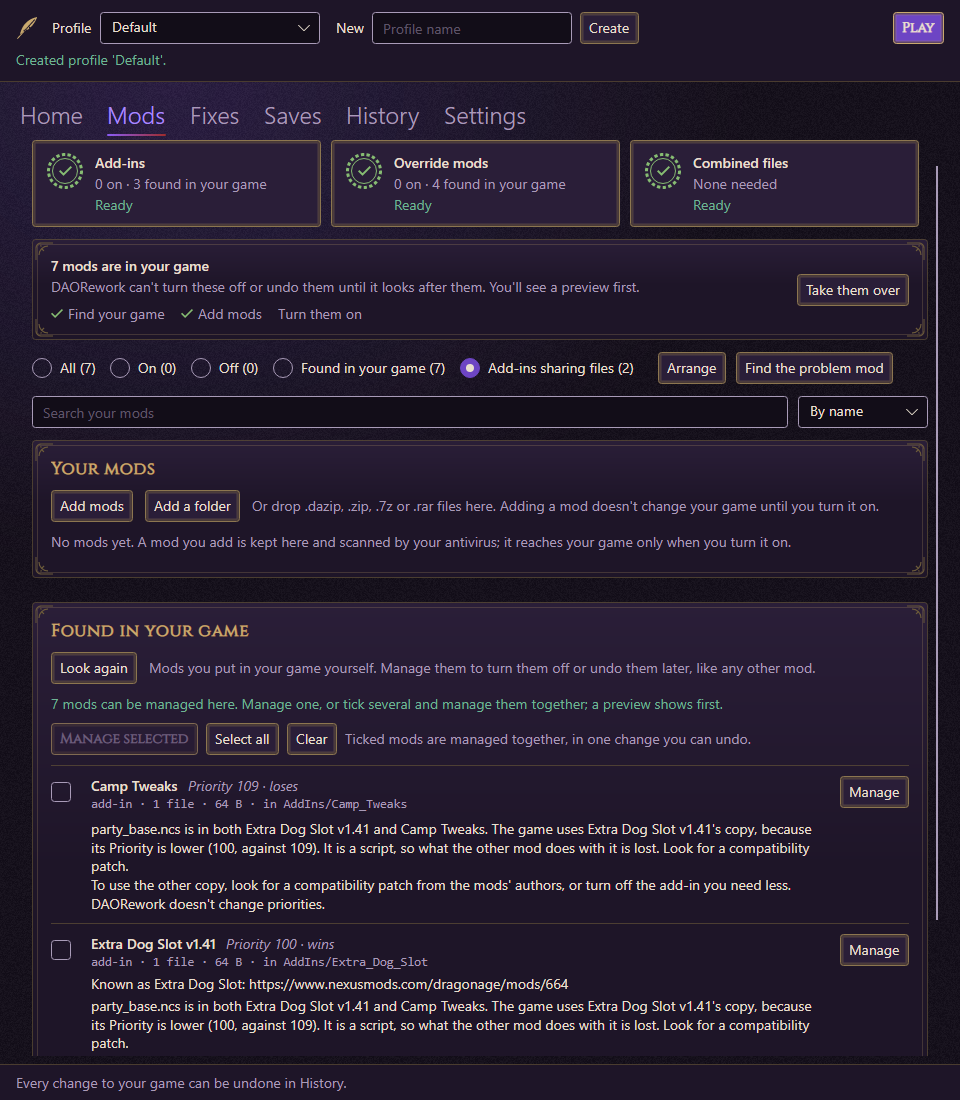
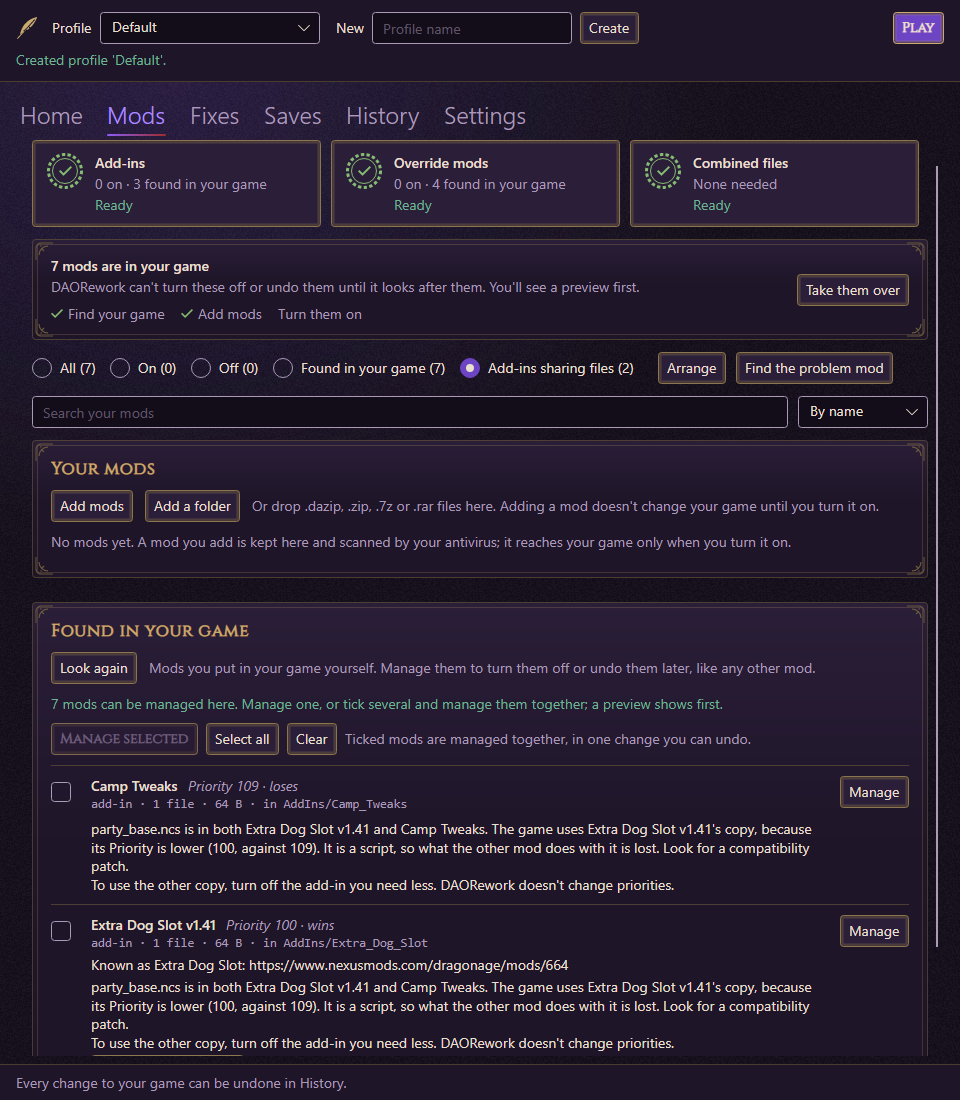
test(mods): picking another profile mid-read keeps its own add-in tags (P2.5-23)
The ponytail review found the profile fix had no test. A reader that
holds profile A's add-ins until the test lets go shows that B's marks
stay. The test fails if the two profile checks are taken out.

The screenshot is retaken for the shorter advice line from #226.

Changed region(s): [[0.0938, 0.8036, 0.8438, 0.9582], [0.875, 0.8036, 0.9688, 0.8964]]

diff --git a/tests/DAORework.App.Tests/AddInPriorityWhileSwitchingTests.cs b/tests/DAORework.App.Tests/AddInPriorityWhileSwitchingTests.cs
@@ -1,0 +1,59 @@
+using DAORework.App.ViewModels;
+using DAORework.Application.Abstractions;
+using DAORework.Application.Mods.AddIns;
+using DAORework.Application.Profiles;
+using DAORework.Core.Common;
+using DAORework.Core.Mods.AddIns;
+using DAORework.Core.Profiles;
+using Microsoft.Extensions.Logging.Abstractions;
+using Xunit;
+
+namespace DAORework.App.Tests;
+
+/// <summary>The add-in tags when the player picks another profile while the last one's add-ins are still being read (P2.5-23).</summary>
+public sealed class AddInPriorityWhileSwitchingTests
+{
+    [Fact]
+    public async Task Load_AnotherProfileBeforeTheFirstReadEnds_KeepsTheNewProfilesMarks()
+    {
+        var reader = new GatedReader();
+        var profiles = new TwoProfiles();
+        var addIns = new AddInPriorityViewModel(new GetProfile(profiles), new FindAddInClashes(reader), NullLogger<AddInPriorityViewModel>.Instance);
+
+        var first = addIns.LoadAsync("A", TestContext.Current.CancellationToken);
+        await addIns.LoadAsync("B", TestContext.Current.CancellationToken);
+        reader.Release();
+        await first;
+
+        Assert.Equal(["b_mod"], addIns.Marks.Keys);
+    }
+
+    /// <summary>Profile A's add-ins are read only once <see cref="Release"/> is called; B's at once.</summary>
+    private sealed class GatedReader : IDocumentsAddInsReader
+    {
+        private readonly TaskCompletionSource _gate = new(TaskCreationOptions.RunContinuationsAsynchronously);
+
+        public void Release() => _gate.SetResult();
+
+        public async Task<Result<DocumentsAddIns>> ReadAsync(string documentsDirectory, CancellationToken cancellationToken = default)
+        {
+            if (documentsDirectory == "docs-a")
+            {
+                await _gate.Task.WaitAsync(cancellationToken);
+            }
+
+            var uid = documentsDirectory == "docs-a" ? "a_mod" : "b_mod";
+            return Result.Success(new DocumentsAddIns([new ListedAddIn(uid, uid, "Single Player", 100, 0, IsOfficial: false)], [], []));
+        }
+    }
+
+    private sealed class TwoProfiles : IProfileRepository
+    {
+        public Task<RuntimeProfile?> LoadAsync(string profileName, CancellationToken cancellationToken = default) =>
+            Task.FromResult<RuntimeProfile?>(new RuntimeProfile { Name = profileName, UserDocumentsDirectory = profileName == "A" ? "docs-a" : "docs-b" });
+
+        public Task SaveAsync(RuntimeProfile profile, CancellationToken cancellationToken = default) => throw new NotSupportedException();
+
+        public Task<IReadOnlyList<string>> ListNamesAsync(CancellationToken cancellationToken = default) => Task.FromResult<IReadOnlyList<string>>(["A", "B"]);
+    }
+}
